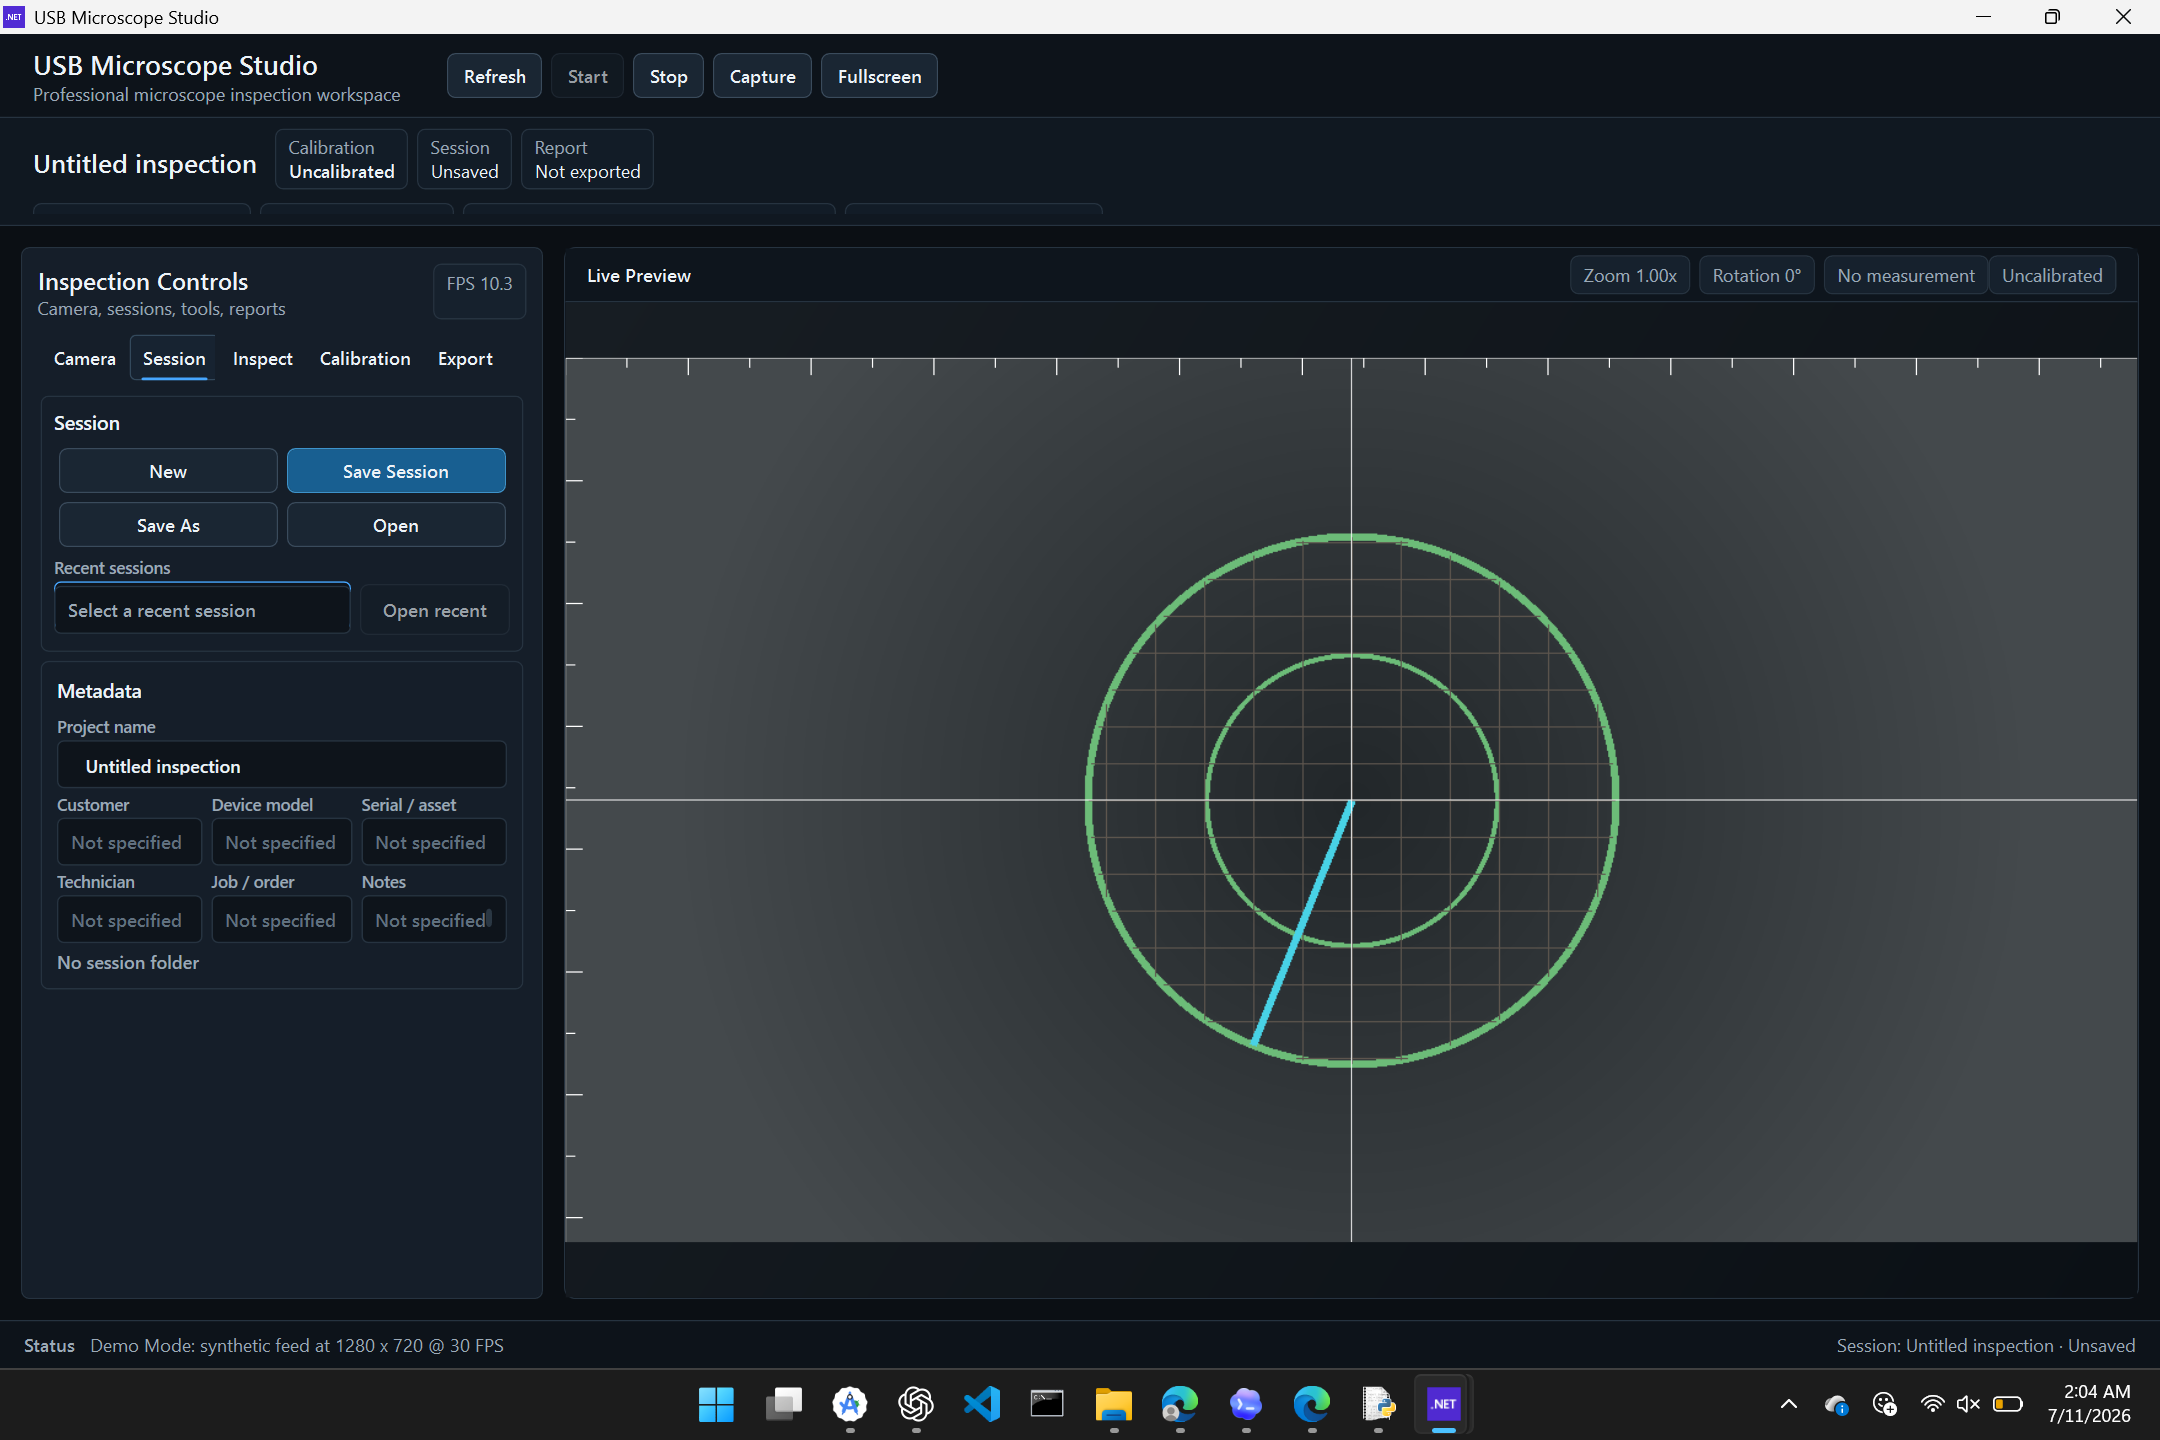
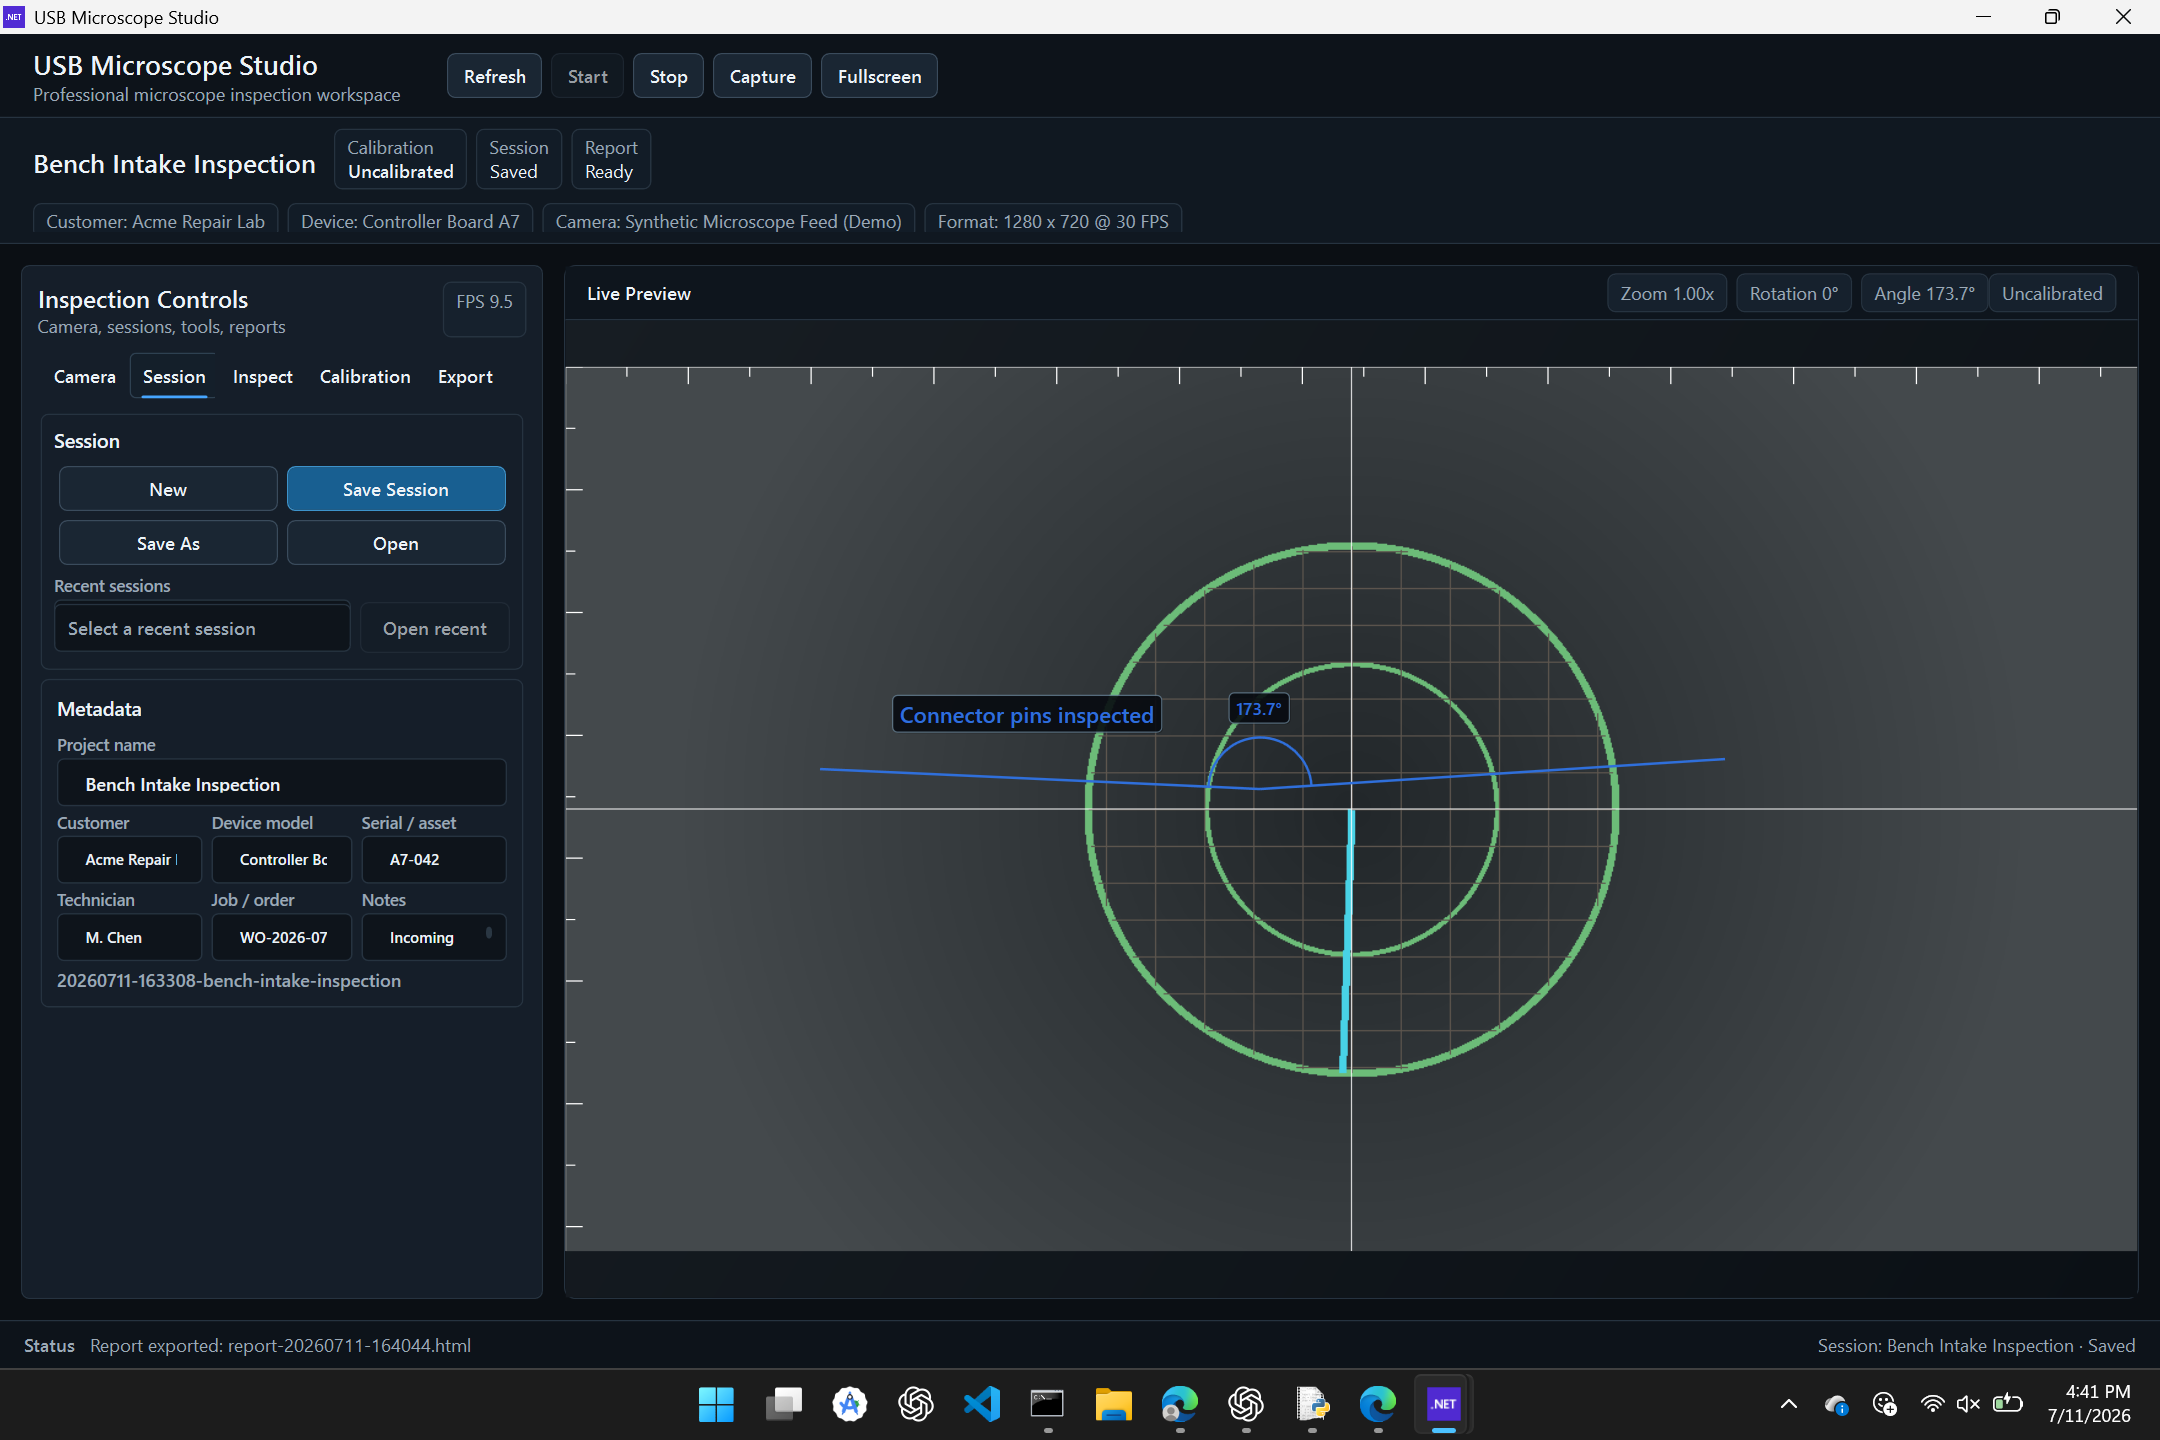
Refresh Phase 3E completed smoke evidence

diff --git a/src/UsbMicroscopeStudio/MainWindow.xaml b/src/UsbMicroscopeStudio/MainWindow.xaml
@@ -16,7 +16,7 @@
     <Grid Background="{StaticResource SurfaceBrush}">
         <Grid.RowDefinitions>
             <RowDefinition Height="56" />
-            <RowDefinition Height="72" />
+            <RowDefinition Height="84" />
             <RowDefinition Height="*" />
             <RowDefinition Height="32" />
         </Grid.RowDefinitions>
@@ -254,15 +254,15 @@
                                                 </Grid.ColumnDefinitions>
                                                 <StackPanel Margin="0,0,3,0">
                                                     <TextBlock Text="Customer" Style="{StaticResource FieldLabelStyle}" Margin="0,3,0,2" />
-                                                    <TextBox Text="{Binding CustomerName, UpdateSourceTrigger=PropertyChanged}" Tag="Not specified" AutomationProperties.AutomationId="CustomerNameTextBox" />
+                                                    <TextBox Text="{Binding CustomerName, UpdateSourceTrigger=PropertyChanged}" Tag="Not specified" FontSize="10" ToolTip="{Binding CustomerName}" AutomationProperties.AutomationId="CustomerNameTextBox" />
                                                 </StackPanel>
                                                 <StackPanel Grid.Column="1" Margin="3,0,3,0">
                                                     <TextBlock Text="Device model" Style="{StaticResource FieldLabelStyle}" Margin="0,3,0,2" />
-                                                    <TextBox Text="{Binding DeviceModel, UpdateSourceTrigger=PropertyChanged}" Tag="Not specified" AutomationProperties.AutomationId="DeviceModelTextBox" />
+                                                    <TextBox Text="{Binding DeviceModel, UpdateSourceTrigger=PropertyChanged}" Tag="Not specified" FontSize="10" ToolTip="{Binding DeviceModel}" AutomationProperties.AutomationId="DeviceModelTextBox" />
                                                 </StackPanel>
                                                 <StackPanel Grid.Column="2" Margin="3,0,0,0">
                                                     <TextBlock Text="Serial / asset" Style="{StaticResource FieldLabelStyle}" Margin="0,3,0,2" />
-                                                    <TextBox Text="{Binding SerialAssetTag, UpdateSourceTrigger=PropertyChanged}" Tag="Not specified" AutomationProperties.AutomationId="SerialAssetTagTextBox" />
+                                                    <TextBox Text="{Binding SerialAssetTag, UpdateSourceTrigger=PropertyChanged}" Tag="Not specified" FontSize="10" ToolTip="{Binding SerialAssetTag}" AutomationProperties.AutomationId="SerialAssetTagTextBox" />
                                                 </StackPanel>
                                             </Grid>
                                             <Grid Grid.Row="3">
@@ -273,15 +273,15 @@
                                                 </Grid.ColumnDefinitions>
                                                 <StackPanel Margin="0,0,3,0">
                                                     <TextBlock Text="Technician" Style="{StaticResource FieldLabelStyle}" Margin="0,3,0,2" />
-                                                    <TextBox Text="{Binding TechnicianName, UpdateSourceTrigger=PropertyChanged}" Tag="Not specified" AutomationProperties.AutomationId="TechnicianNameTextBox" />
+                                                    <TextBox Text="{Binding TechnicianName, UpdateSourceTrigger=PropertyChanged}" Tag="Not specified" FontSize="10" ToolTip="{Binding TechnicianName}" AutomationProperties.AutomationId="TechnicianNameTextBox" />
                                                 </StackPanel>
                                                 <StackPanel Grid.Column="1" Margin="3,0,3,0">
                                                     <TextBlock Text="Job / order" Style="{StaticResource FieldLabelStyle}" Margin="0,3,0,2" />
-                                                    <TextBox Text="{Binding JobOrderNumber, UpdateSourceTrigger=PropertyChanged}" Tag="Not specified" AutomationProperties.AutomationId="JobOrderNumberTextBox" />
+                                                    <TextBox Text="{Binding JobOrderNumber, UpdateSourceTrigger=PropertyChanged}" Tag="Not specified" FontSize="10" ToolTip="{Binding JobOrderNumber}" AutomationProperties.AutomationId="JobOrderNumberTextBox" />
                                                 </StackPanel>
                                                 <StackPanel Grid.Column="2" Margin="3,0,0,0">
                                                     <TextBlock Text="Notes" Style="{StaticResource FieldLabelStyle}" Margin="0,3,0,2" />
-                                                    <TextBox Text="{Binding SessionNotes, UpdateSourceTrigger=PropertyChanged}" Tag="Not specified" Height="32" TextWrapping="Wrap" VerticalScrollBarVisibility="Auto" AutomationProperties.AutomationId="SessionNotesTextBox" />
+                                                    <TextBox Text="{Binding SessionNotes, UpdateSourceTrigger=PropertyChanged}" Tag="Not specified" FontSize="10" ToolTip="{Binding SessionNotes}" Height="32" TextWrapping="Wrap" VerticalScrollBarVisibility="Auto" AutomationProperties.AutomationId="SessionNotesTextBox" />
                                                 </StackPanel>
                                             </Grid>
                                             <TextBlock Grid.Row="4" Text="{Binding CurrentSessionFolderDisplay}" ToolTip="{Binding CurrentSessionFolderPath}" TextTrimming="CharacterEllipsis" Style="{StaticResource MutedTextStyle}" Margin="0,4,0,0" AutomationProperties.AutomationId="CurrentSessionFolderText" />